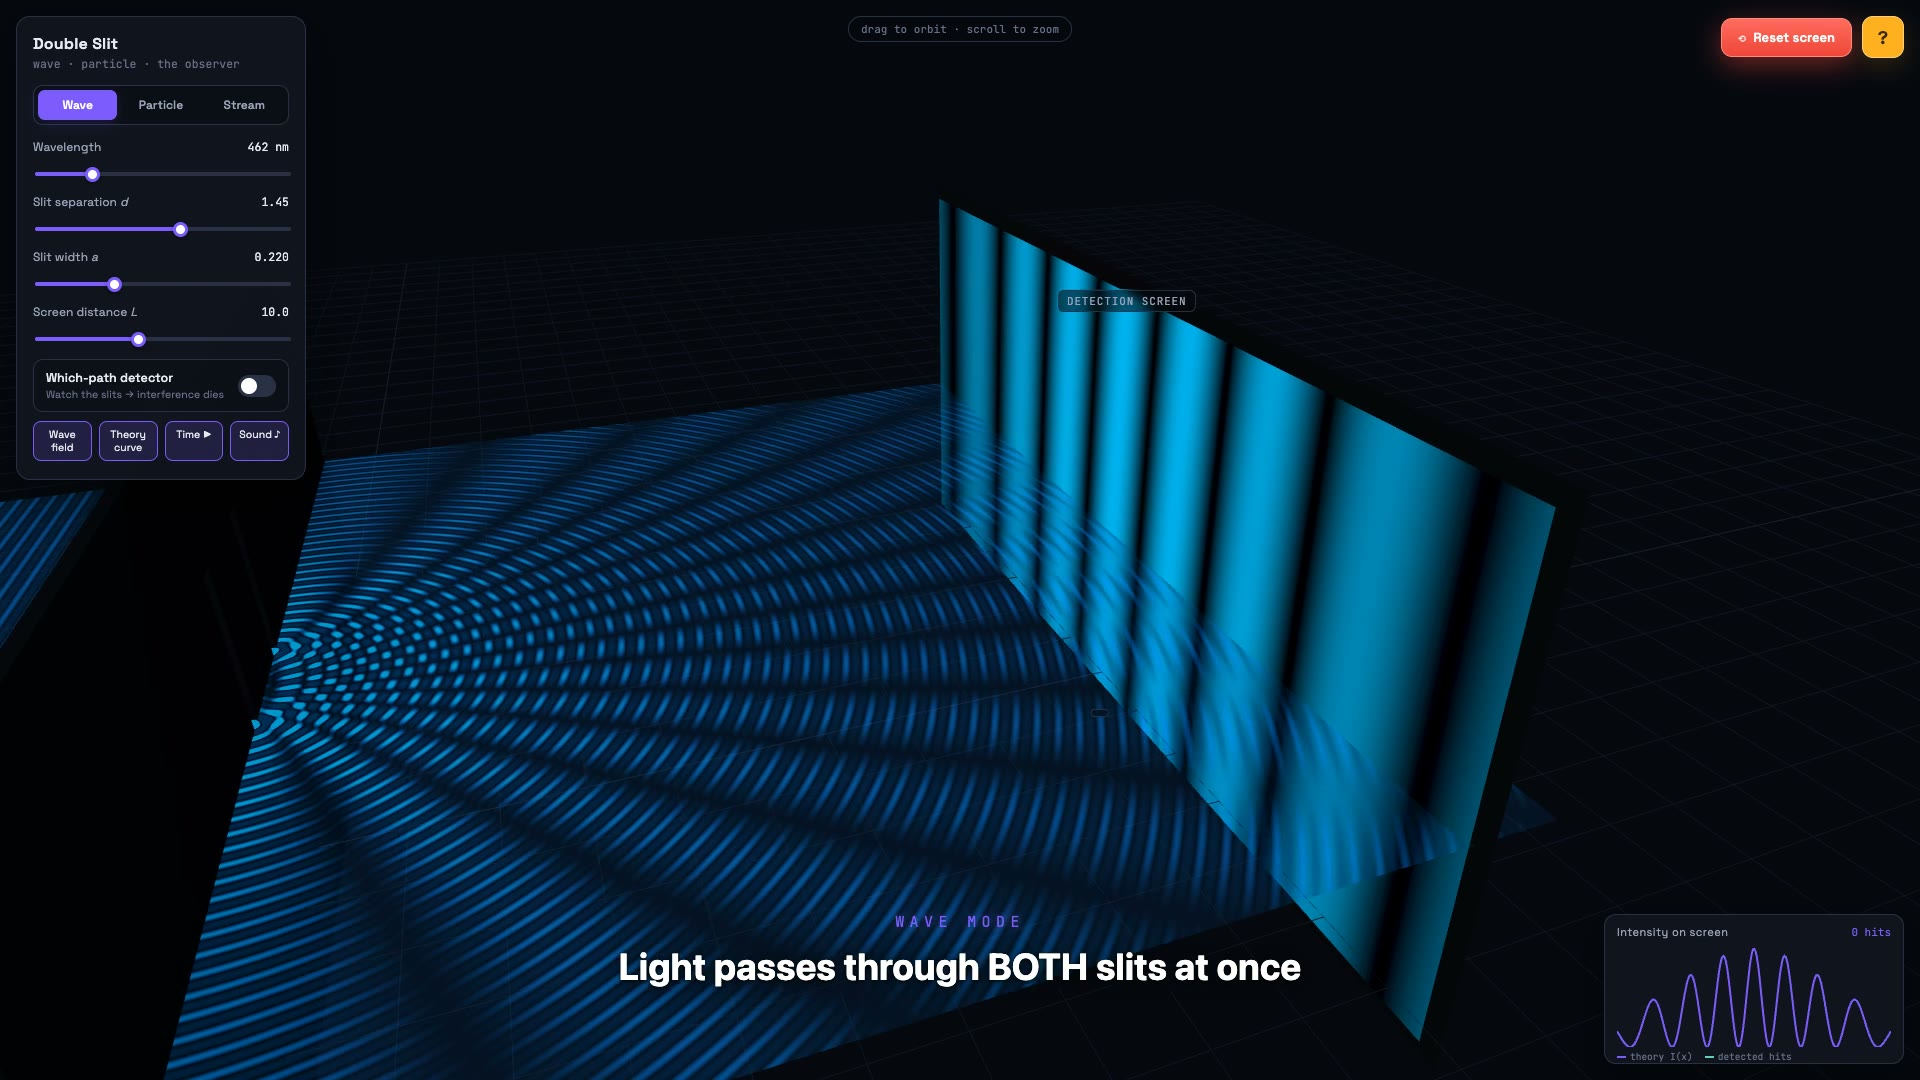
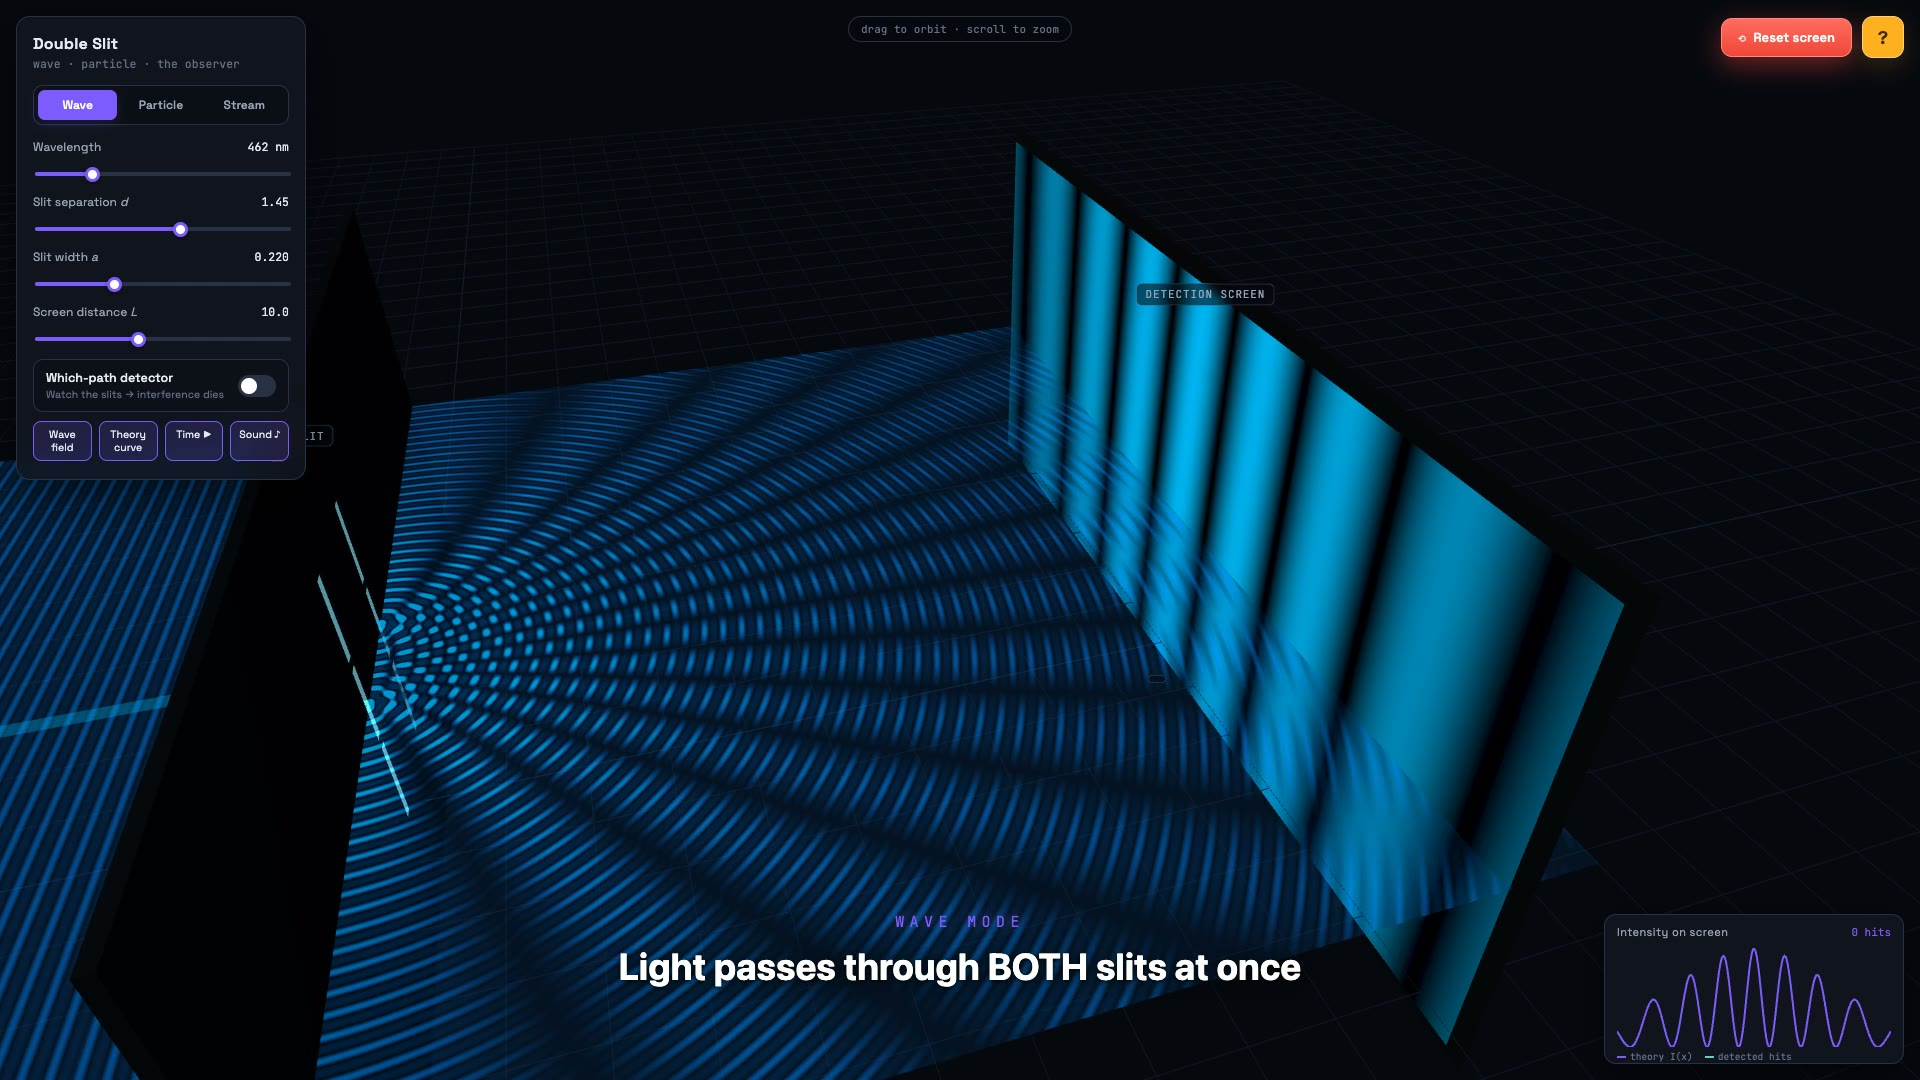
Re-sync rap video: hold title to the 0:11 vocal, retimed intro beats; remove wave-mode audio hum

Changed region(s): [[0.0, 0.1528, 0.8438, 1.0]]

diff --git a/index.html b/index.html
@@ -1303,10 +1303,10 @@ const TL = {
   // camera keyframes: {t, p:[pos], g:[target]} — eased (smoothstep) between keys
   cam: [
     { t:0,   p:[-13, 8.5, 19],  g:[3, 0.6, 0] },
-    { t:9,   p:[-12.5, 5.5, 15], g:[0, 0.5, 0] },
-    { t:22,  p:[-10, 6, 15],    g:[2, 0.6, 0] },
-    { t:35,  p:[3.5, 15, 9],    g:[3.2, 0, 0] },
-    { t:51,  p:[3, 3, 13.5],    g:[10, 0.4, 0] },
+    { t:16,  p:[-12.5, 5.5, 15], g:[0, 0.5, 0] },
+    { t:27,  p:[-10, 6, 15],    g:[2, 0.6, 0] },
+    { t:40,  p:[3.5, 15, 9],    g:[3.2, 0, 0] },
+    { t:55,  p:[3, 3, 13.5],    g:[10, 0.4, 0] },
     { t:66,  p:[2, 3.2, 15],    g:[9, 0.4, 0] },
     { t:82,  p:[-2.5, 5, 15.5], g:[8, 0.4, 0] },
     { t:100, p:[-6, 6.5, 14],   g:[5, 0.4, 0] },
@@ -1324,10 +1324,10 @@ const TL = {
   ],
   // captions: {t, e, k(kicker), c(title)}
   caps: [
-    { t:9,   e:22,  k:'The apparatus',  c:'A source fires light through two slits onto a screen' },
-    { t:22,  e:35,  k:'Your controls',  c:'Tune wavelength, slit spacing & distance — live' },
-    { t:35,  e:51,  k:'Wave mode',      c:'Light passes through BOTH slits at once' },
-    { t:51,  e:66,  k:'Interference',   c:'Crests add, troughs cancel — bright & dark bands' },
+    { t:16,  e:27,  k:'The apparatus',  c:'A source fires light through two slits onto a screen' },
+    { t:27,  e:40,  k:'Your controls',  c:'Tune wavelength, slit spacing & distance — live' },
+    { t:40,  e:55,  k:'Wave mode',      c:'Light passes through BOTH slits at once' },
+    { t:55,  e:66,  k:'Interference',   c:'Crests add, troughs cancel — bright & dark bands' },
     { t:66,  e:82,  k:'Particle mode',  c:'One photon at a time lands as a single random dot' },
     { t:82,  e:100, k:'Stream',         c:'Thousands of “random” dots build the SAME stripes' },
     { t:100, e:119, k:'The mystery',    c:'Each photon interferes with itself — both paths at once' },
@@ -1339,21 +1339,21 @@ const TL = {
   ],
   // full-screen cards: {t, e, kick, big, sub}
   cards: [
-    { t:0,   e:9,   kick:'Interactive quantum experiment', big:'DOUBLE SLIT', sub:'wave · particle · the observer' },
+    { t:0,   e:16,  kick:'Interactive quantum experiment', big:'DOUBLE SLIT', sub:'wave · particle · the observer' },
     { t:202, e:224, kick:'Explore it yourself', big:'DOUBLE SLIT', sub:'amotzalbert.github.io/doubleslit' },
   ],
   // param ramps: {t0,t1,id,from,to}
   ramps: [
-    { t0:24, t1:31, id:'lam', from:550, to:462 },
-    { t0:31, t1:35, id:'d',   from:1.0, to:1.45 },
+    { t0:29, t1:36, id:'lam', from:550, to:462 },
+    { t0:36, t1:40, id:'d',   from:1.0, to:1.45 },
     { t0:162, t1:172, id:'lam', from:462, to:638 },
     { t0:170, t1:180, id:'d',   from:1.45, to:0.95 },
   ],
   // one-shot events: {t, fn}
   events: [
-    { t:9,   fn:()=>{ setMode('wave'); setObserver(false,{silent:true}); state.showField=false; field.visible=false; document.getElementById('chipField').classList.remove('on'); } },
-    { t:22,  fn:()=>{ dsFlash('#lam'); dsFlash('#d'); } },
-    { t:35,  fn:()=>{ setMode('wave'); state.showField=true; field.visible=true; document.getElementById('chipField').classList.add('on'); dsFlash('#modeSeg button[data-mode="wave"]'); paintWaveScreen(); } },
+    { t:16,  fn:()=>{ setMode('wave'); setObserver(false,{silent:true}); state.showField=false; field.visible=false; document.getElementById('chipField').classList.remove('on'); } },
+    { t:27,  fn:()=>{ dsFlash('#lam'); dsFlash('#d'); } },
+    { t:40,  fn:()=>{ setMode('wave'); state.showField=true; field.visible=true; document.getElementById('chipField').classList.add('on'); dsFlash('#modeSeg button[data-mode="wave"]'); paintWaveScreen(); } },
     { t:66,  fn:()=>{ softClear(); setMode('single'); setObserver(false,{silent:true}); dsFlash('#modeSeg button[data-mode="single"]'); fireBtnText('Fire one ▸'); } },
     // single-photon volley
     ...Array.from({length:16},(_,i)=>({ t:68 + i*0.78, fn:()=>{ if(state.mode==='single'){ recordHit(sampleX()); dsFlash('#fireBtn'); } } })),
@@ -1395,16 +1395,15 @@ function updateSlitHL(s){
   const { a, b, lbl } = slitHL.userData;
   a.scale.z = state.a; a.position.set(0, 0,  state.d/2);
   b.scale.z = state.a; b.position.set(0, 0, -state.d/2);
-  // intensity envelope (shifted seconds): bloom in 5→9, hold through apparatus+controls,
-  // fade out 30→40 as the wave field takes over.
+  // intensity envelope (shifted seconds): bloom in 13→16 (as "double slit" is sung ~real 11),
+  // then stay lit at full brightness for the rest of the video (slits always visible).
   let inten = 0;
-  if(s>=5 && s<9)       inten = (s-5)/4;
-  else if(s>=9 && s<30) inten = 1;
-  else if(s>=30 && s<40) inten = (40-s)/10;
+  if(s>=13 && s<16) inten = (s-13)/3;
+  else if(s>=16)    inten = 1;
   const pulse = 0.6 + 0.4*Math.sin(s*3.2);
   const o = Math.max(0, inten) * pulse * 0.85;
   a.material.opacity = o; b.material.opacity = o;
-  lbl.element.style.opacity = (s>=6 && s<23) ? Math.min(1, (s-6)/1.2) * (s<21?1:(23-s)/2) : 0;
+  lbl.element.style.opacity = (s>=14 && s<31) ? Math.min(1, (s-14)/1.2) * (s<29?1:(31-s)/2) : 0;
 }
 
 const __ds = {
@@ -1528,9 +1527,9 @@ function frame(dt, now){
   // fire button turns red whenever it's a "Stop" action, green otherwise
   fireBtnEl.classList.toggle('stop', fireBtnEl.textContent.indexOf('Stop')===0);
 
-  // continuous beam/stream sound: on during wave mode or active stream
+  // continuous stream sound only (wave-mode hum removed)
   if(actx){
-    const want = state.sound && (state.mode==='wave' || (state.mode==='stream' && streaming));
+    const want = state.sound && (state.mode==='stream' && streaming);
     if(want!==beamOn){ beamOn=want; setBeam(want); }
   }
 